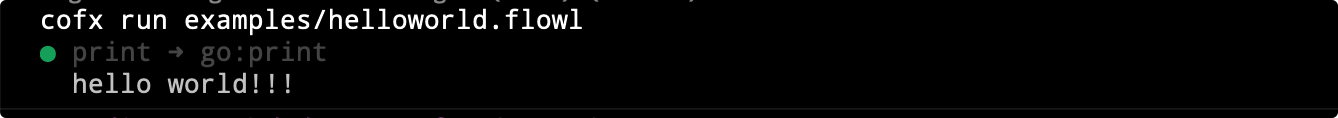
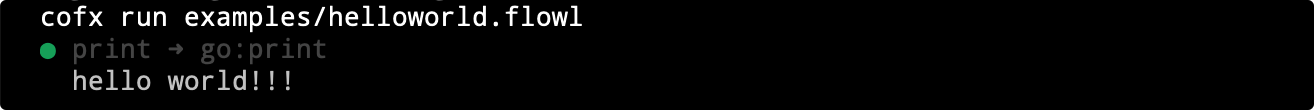
docs: updated readme

diff --git a/README.md b/README.md
@@ -89,7 +89,7 @@ co print {
 
 Run the code:
 
-![](./docs/assets/hello.gif)
+![](./docs/assets/hello.png)
 
 The flowl source file needs to use the `.flowl` extension to be executed.
 
